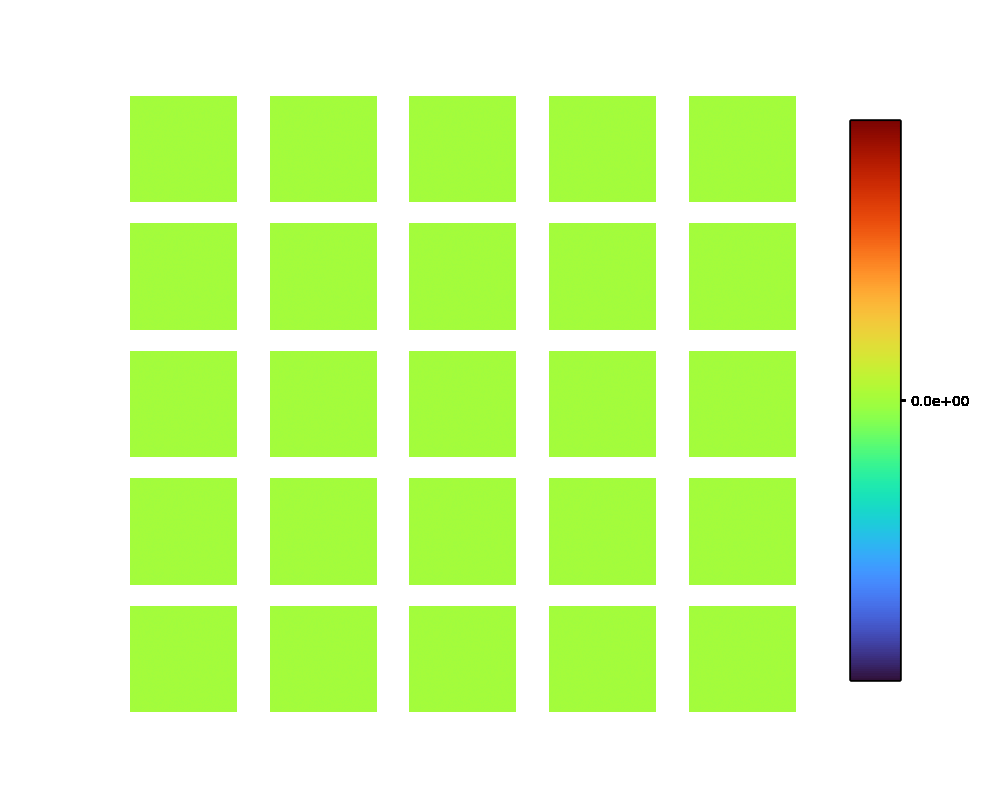
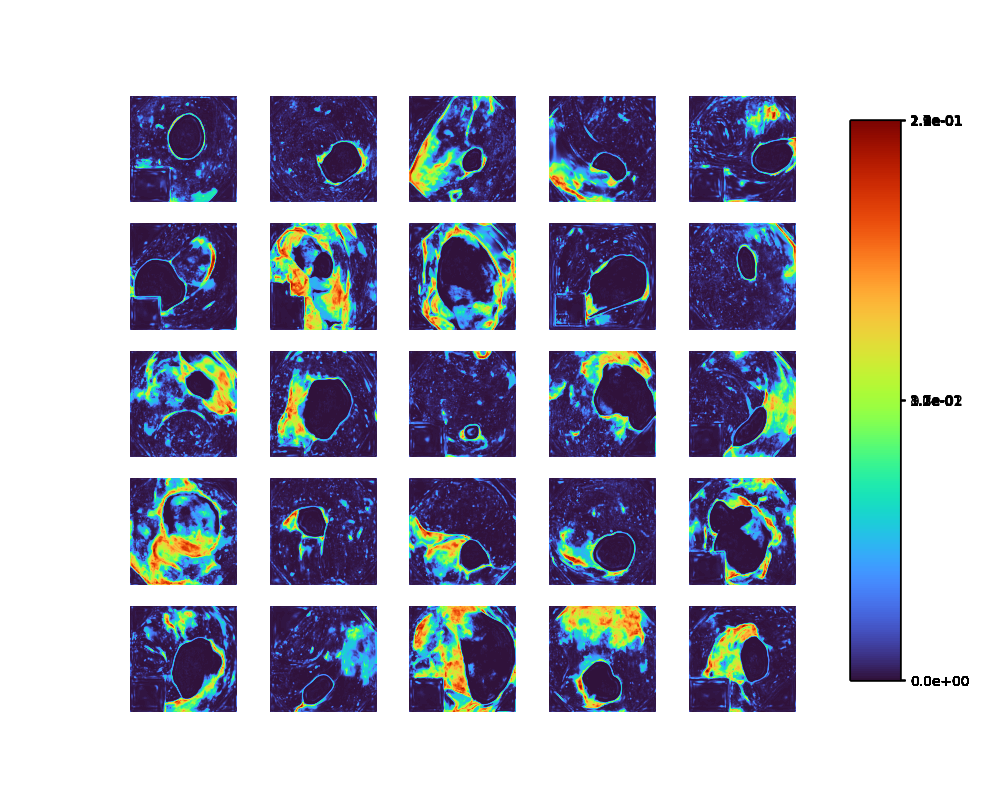
deep ensembles finally work, but only partially

diff --git a/src/deep_ensemble.py b/src/deep_ensemble.py
@@ -30,22 +30,19 @@ class DeepEnsemble(nn.Module):
     def __init__(self, model, ensemble_size: int, device: str, load_folder: str):
         super().__init__()
         self.device = device
-
-        self.model_list, self.loaded_model_list = [], []
-        for i, path in enumerate(os.listdir(load_folder)[:ensemble_size]):
-            self.model_list.append(model)
-            checkpoint = torch.load(load_folder + path)
-            self.model_list[i].load_state_dict(checkpoint["state_dict"])
-            self.loaded_model_list.append(self.model_list[i])
+        self.load_folder = load_folder
+        self.ensemble_size = ensemble_size
+        self.model = model
 
     def forward(self, x):
         inputs = []
-        for model in self.loaded_model_list:
-            model.to(self.device)
-            model.eval()   
-            for param in model.parameters():
+        for path in os.listdir(self.load_folder)[:ensemble_size]:
+            checkpoint = torch.load(self.load_folder + path, map_location=self.device)
+            self.model.load_state_dict(checkpoint["state_dict"])
+            self.model.eval()   
+            for param in self.model.parameters():
                     param.requires_grad_(False)       
-            inputs.append(model(x))
+            inputs.append(self.model(x))
 
         outputs = torch.stack(inputs)  # shape = (ensemble_size, b, c, w, h)
         sigmoided = torch.sigmoid(outputs) # convert to probabilities

diff --git a/src/utils/utils.py b/src/utils/utils.py
@@ -161,7 +161,7 @@ def save_grid(ims, folder, rows=None, cols=None):
     #fig.subplots_adjust(wspace=0, hspace=0)
 
     for ax,im in zip(axarr.ravel(), ims):
-        img = ax.imshow(im, cmap="turbo", vmin=im.min(), vmax=im.max())
+        img = ax.imshow(im, cmap="jet", vmin=im.min(), vmax=im.max())
         ax.set_axis_off()
         ax.set_aspect("equal") 
         fig.subplots_adjust(right=0.8)
